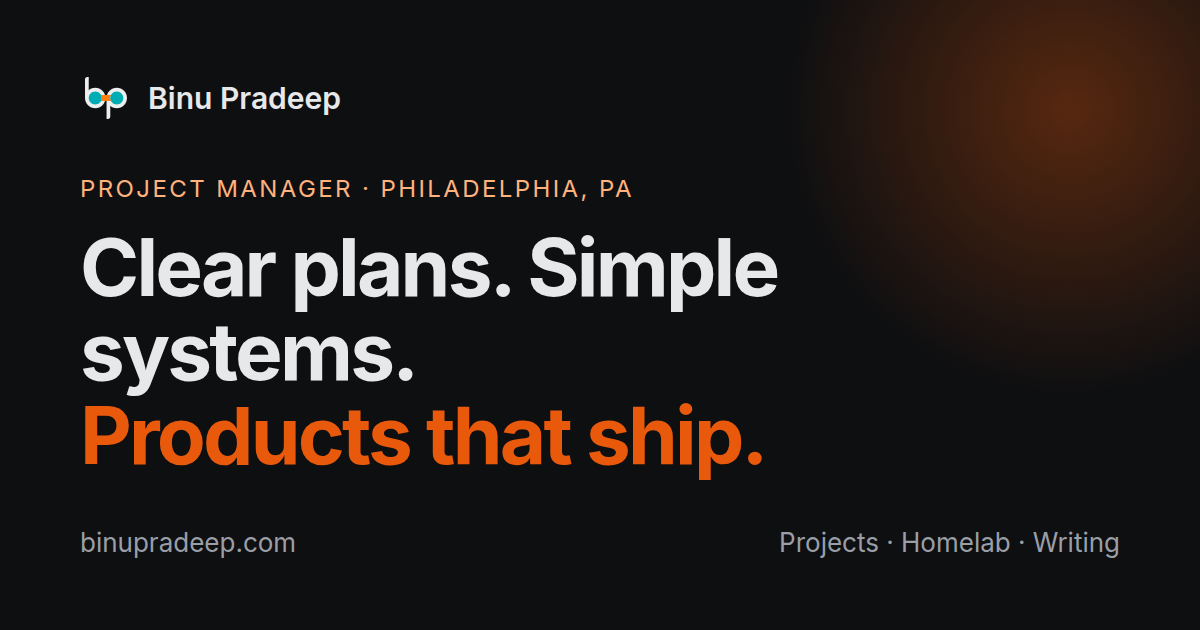
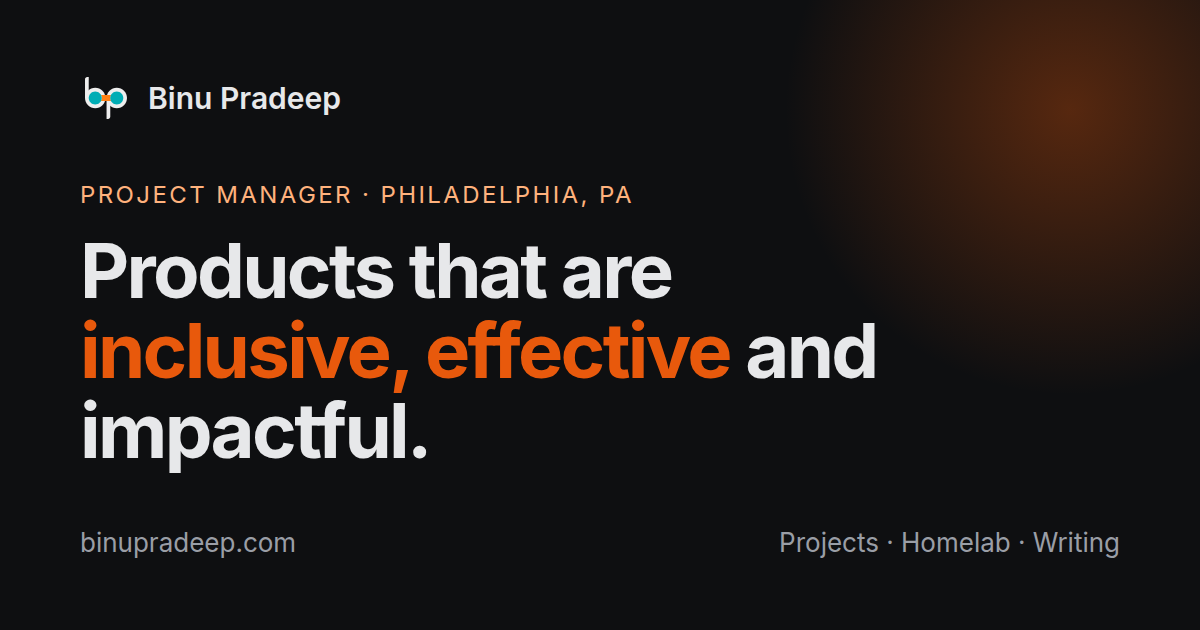
Restore original hero copy, regenerate OG image, update repo name references
Claude-Session: https://claude.ai/code/session_0125FXtcPfWKqyfBzh9JZoej

Changed region(s): [[0.0617, 0.3619, 0.74, 0.754], [0.0617, 0.2714, 0.5242, 0.3317]]

diff --git a/scripts/og-image.html b/scripts/og-image.html
@@ -6,10 +6,10 @@ body::before{content:'';position:absolute;right:-180px;top:-200px;width:620px;he
 .brand{display:flex;align-items:center;gap:16px;font-weight:600;font-size:30px;position:relative}
 .brand img{width:52px;height:52px}
 .eyebrow{color:#ffb27d;font-size:24px;letter-spacing:.1em;text-transform:uppercase;margin-bottom:22px;position:relative}
-h1{font-size:80px;line-height:1.05;letter-spacing:-.035em;font-weight:700;position:relative;max-width:980px}
+h1{font-size:76px;line-height:1.05;letter-spacing:-.035em;font-weight:700;position:relative;max-width:980px}
 h1 em{font-style:normal;color:#e8590c}
 .foot{display:flex;justify-content:space-between;color:#9a9ea6;font-size:26px;position:relative}
 </style>
[1 lines of base64/hex data omitted]
-<div><div class="eyebrow">Project Manager · Philadelphia, PA</div><h1>Clear plans. Simple systems.<br><em>Products that ship.</em></h1></div>
+<div><div class="eyebrow">Project Manager · Philadelphia, PA</div><h1>Products that are<br><em>inclusive, effective</em> and impactful.</h1></div>
 <div class="foot"><span>binupradeep.com</span><span>Projects · Homelab · Writing</span></div>

diff --git a/AGENTS.md b/AGENTS.md
@@ -22,7 +22,7 @@ This repository powers **Binu Pradeep's** personal portfolio, homelab documentat
 Built with **Astro 7 + Starlight**, deployed as a static site on Cloudflare Pages.
 
 ```
-binupradeep-mkdocs/
+binupradeep-com/
 ├── astro.config.mjs        # Starlight config: sidebar topics, blog, mermaid, icons
 ├── package.json
 ├── public/                 # favicon, robots.txt, _headers

diff --git a/.agents/skills/binupradeep-website/references/site-structure.md b/.agents/skills/binupradeep-website/references/site-structure.md
@@ -1,6 +1,6 @@
 # Site Structure & Taxonomies
 
-This document outlines the complete architectural layout, navigation hierarchy, plugin ecosystem, and media taxonomy for `binupradeep-mkdocs`.
+This document outlines the complete architectural layout, navigation hierarchy, plugin ecosystem, and media taxonomy for `binupradeep-com`.
 
 ---
 

diff --git a/.agents/skills/binupradeep-website/references/style-guide.md b/.agents/skills/binupradeep-website/references/style-guide.md
@@ -1,6 +1,6 @@
 # Writing & Style Guide
 
-This guide establishes the stylistic, linguistic, and visual standards for all content across `binupradeep-mkdocs`.
+This guide establishes the stylistic, linguistic, and visual standards for all content across `binupradeep-com`.
 
 ---
 
